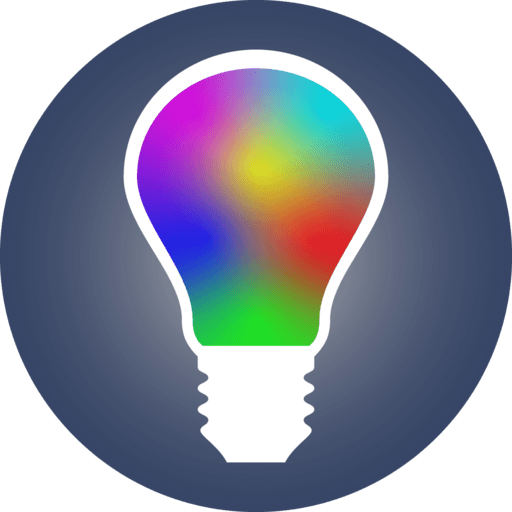
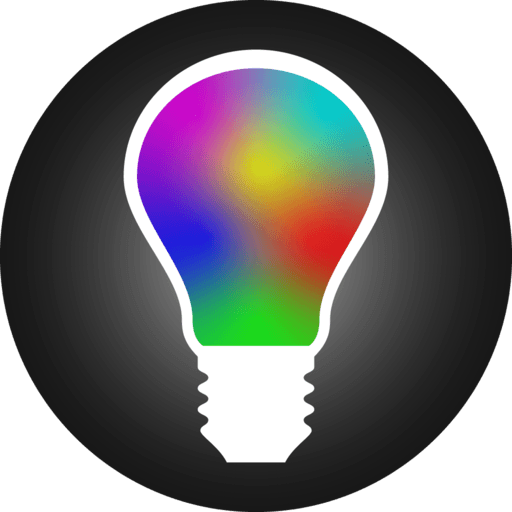
Update theme

diff --git a/index.html b/index.html
@@ -11,13 +11,13 @@
     <link rel="icon" type="image/png" sizes="32x32" href="/icons/favicon-32x32.png">
     <link rel="icon" type="image/png" sizes="16x16" href="/icons/favicon-16x16.png">
     <link rel="manifest" href="/icons/site.webmanifest">
-    <link rel="mask-icon" href="/icons/safari-pinned-tab.svg" color="#3a4766">
+    <link rel="mask-icon" href="/icons/safari-pinned-tab.svg" color="#1e1e1e">
     <link rel="shortcut icon" href="/icons/favicon.ico">
     <meta name="apple-mobile-web-app-title" content="Hue Control">
     <meta name="application-name" content="Hue Control">
-    <meta name="msapplication-TileColor" content="#3a4766">
+    <meta name="msapplication-TileColor" content="#1e1e1e">
     <meta name="msapplication-config" content="/icons/browserconfig.xml">
-    <meta name="theme-color" content="#3a4766">
+    <meta name="theme-color" content="#1e1e1e">
 
     <link rel="stylesheet" href="bulma.css">
     <link rel="stylesheet" href="hue.css">
@@ -193,10 +193,10 @@ function pickColor(mode, id, currentcolor, groupid) {
 //        html += "<span onclick=\x22pickColor('light', "+key+", '#"+hexcolor+"');\x22>pick_color</span>";
 
         if (data[key].state.on == true) {
-          html += "<button id='light-"+key+"-turnoff' onclick='hueLightToggle(["+key+"], false);' style='width: 64px; height: 64px; background-color: "+hueLightBtnBgColor+"; display: flex; float: right;' class='button'><span class='icon is-large'><i class='fas fa-2x fa-toggle-on' style='color: "+hueLightBtnColor+";'></i></span></button>";
-          html += "<button onclick=\x22pickColor('light', "+key+", '#"+hexcolor+"');\x22 style='width: 64px; height: 64px; background-color: "+hueLightBtnBgColor+"; display: flex; float: right;' class='button'><span class='icon is-large'><i class='fas fa-2x fa-palette' style='color: "+hueLightBtnColor+";'></i></span></button>";
+          html += "<button id='light-"+key+"-turnoff' onclick='hueLightToggle(["+key+"], false);' style='width: 80px; height: 80px; background-color: "+hueLightBtnBgColor+"; display: flex; float: right;' class='button'><span class='icon is-large'><i class='fas fa-2x fa-toggle-on' style='color: "+hueLightBtnColor+";'></i></span></button>";
+          html += "<button onclick=\x22pickColor('light', "+key+", '#"+hexcolor+"');\x22 style='width: 80px; height: 80px; background-color: "+hueLightBtnBgColor+"; display: flex; float: right;' class='button'><span class='icon is-large'><i class='fas fa-2x fa-palette' style='color: "+hueLightBtnColor+";'></i></span></button>";
         } else {
-          html += "<button id='light-"+key+"-turnon' onclick='hueLightToggle(["+key+"], true);' style='width: 64px; height: 64px; background-color: "+hueLightBtnBgColor+"; display: flex; float: right;' class='button'><span class='icon is-large'><i class='fas fa-2x fa-toggle-off' style='color: "+hueLightBtnColor+";'></i></span></button>";
+          html += "<button id='light-"+key+"-turnon' onclick='hueLightToggle(["+key+"], true);' style='width: 80px; height: 80px; background-color: "+hueLightBtnBgColor+"; display: flex; float: right;' class='button'><span class='icon is-large'><i class='fas fa-2x fa-toggle-off' style='color: "+hueLightBtnColor+";'></i></span></button>";
         }
 
         html += "</div>";
@@ -256,10 +256,10 @@ function pickColor(mode, id, currentcolor, groupid) {
 //        html += "<input class='jscolor' onchange='setLight([" + data[key].lights + "], " + data[key].action.bri + ", this.jscolor)' value='" + hexcolor + "'>";
 //        html += "<span onclick=\x22pickColor('group', ["+data[key].lights+"], '#"+hexcolor+"', "+key+");\x22>pick_color</span>";
         if (data[key].action.on == true) {
-          html += "<button id='group-"+key+"-turnoff' onclick='hueLightToggle(["+data[key].lights+"], false);' style='width: 64px; height: 64px; background-color: "+hueLightBtnBgColor+"; display: flex; float: right;' class='button'><span class='icon is-large'><i class='fas fa-2x fa-toggle-on' style='color: "+hueLightBtnColor+";'></i></span></button>";
-          html += "<button onclick=\x22pickColor('group', ["+data[key].lights+"], '#"+hexcolor+"', "+key+");\x22 style='width: 64px; height: 64px; background-color: "+hueLightBtnBgColor+"; display: flex; float: right;' class='button'><span class='icon is-large'><i class='fas fa-2x fa-palette' style='color: "+hueLightBtnColor+";'></i></span></button>";
+          html += "<button id='group-"+key+"-turnoff' onclick='hueLightToggle(["+data[key].lights+"], false);' style='width: 80px; height: 80px; background-color: "+hueLightBtnBgColor+"; display: flex; float: right;' class='button'><span class='icon is-large'><i class='fas fa-2x fa-toggle-on' style='color: "+hueLightBtnColor+";'></i></span></button>";
+          html += "<button onclick=\x22pickColor('group', ["+data[key].lights+"], '#"+hexcolor+"', "+key+");\x22 style='width: 80px; height: 80px; background-color: "+hueLightBtnBgColor+"; display: flex; float: right;' class='button'><span class='icon is-large'><i class='fas fa-2x fa-palette' style='color: "+hueLightBtnColor+";'></i></span></button>";
         } else {
-          html += "<button id='group-"+key+"-turnon' onclick='hueLightToggle(["+data[key].lights+"], true);' style='width: 64px; height: 64px; background-color: "+hueLightBtnBgColor+"; display: flex; float: right;' class='button'><span class='icon is-large'><i class='fas fa-2x fa-toggle-off' style='color: "+hueLightBtnColor+";'></i></span></button>";
+          html += "<button id='group-"+key+"-turnon' onclick='hueLightToggle(["+data[key].lights+"], true);' style='width: 80px; height: 80px; background-color: "+hueLightBtnBgColor+"; display: flex; float: right;' class='button'><span class='icon is-large'><i class='fas fa-2x fa-toggle-off' style='color: "+hueLightBtnColor+";'></i></span></button>";
         }
         html += "</div>";
         if (data[key].action.on == true) {

diff --git a/hue.css b/hue.css
@@ -1,34 +1,38 @@
 html, body {
-  background-color: #3a4766;
-  color: #ffffff;
+  background-color: #1e1e1e;
+  color: #dddddd;
 }
 .title {
-  color: #ffffff;
+  color: #dddddd;
 }
 .subtitle {
-  color: #cccccc;
+  color: #bbbbbb;
 }
 .subtitle strong {
-  color: #ffffff;
+  color: #dddddd;
 }
 .tabs.is-boxed li.is-active a {
   background-color: #00000044;
-  color: #ffffff;
-  border-color: #00000044;
+  color: #dddddd;
+  border-color: #2f2f2f !important;
+  border-width: 2px !important;
 }
 .tabs.is-boxed a:hover {
   background-color: #00000011;
-  color: #ffffff;
+  color: #dddddd;
   border-color: #00000022;
 }
 .tabs a {
-  color: #cccccc;
+  color: #888888;
+  border-radius: 20px !important;
+  margin-bottom: 0;
 }
 .tabs ul {
   border-bottom-color: #00000044;
+  border-bottom-width: 0;
 }
 .modal-card-head, .modal-card-foot {
-  background-color: #1a2233;
+  background-color: #1e1e1e;
 }
 .modal-card-head {
   border-bottom-color: #00000044;
@@ -40,10 +44,10 @@ html, body {
   color: #ffffff;
 }
 .modal-card-body {
-  background-color: #222c42;
+  background-color: #222222;
 }
 .button {
-  background-color: #222c42;
+  background-color: #2a2a2a;
   color: #ffffff;
   border-color: #00000044;
 }
@@ -61,12 +65,14 @@ footer.footer strong {
   color: #cccccc;
 }
 footer.footer a {
-  color: #8ba8d8;
+  color: #cccccc;
 }
 footer.footer a:hover {
-  color: #cadeff;
+  color: #ffffff;
 }
-
+#hue #groups, #hue #lights {
+  padding: 0px 20px;
+}
 .huegroup, .huelight {
   border-radius: 20px 20px 0px 0px;
 }
@@ -99,11 +105,11 @@ footer.footer a:hover {
 }
 
 .huelight, .huegroup {
-  height: 64px;
-  line-height: 64px;
+  height: 80px;
+  line-height: 80px;
   margin: 30px 0px 0px 0px;
-  padding: 0px 0px 0px 30px;
-  font-size: 18px;
+  padding: 0px 0px 0px 40px;
+  font-size: 20px;
   font-weight: bold;
 }
 

diff --git a/setup.html b/setup.html
@@ -4,7 +4,7 @@
     <meta charset="utf-8">
     <meta name="viewport" content="height = device-height, width=device-width, initial-scale=0.85, maximum-scale=1, user-scalable = no">
     <meta name="HandheldFriendly" content="True" />
-    <meta name="theme-color" content="#0099CC" />
+    <meta name="theme-color" content="#1e1e1e">
     <meta name="mobile-web-app-capable" content="no" />
     <title>Hue Control - Setup</title>
     <link rel="stylesheet" href="bulma.css">

diff --git a/offline.html b/offline.html
@@ -4,7 +4,7 @@
     <meta charset="utf-8">
     <meta name="viewport" content="height = device-height, width=device-width, initial-scale=0.85, maximum-scale=1, user-scalable = no">
     <meta name="HandheldFriendly" content="True" />
-    <meta name="theme-color" content="#0099CC" />
+    <meta name="theme-color" content="#1e1e1e">
     <meta name="mobile-web-app-capable" content="no" />
     <title>Hue Control</title>
     <link rel="stylesheet" href="bulma.css">
